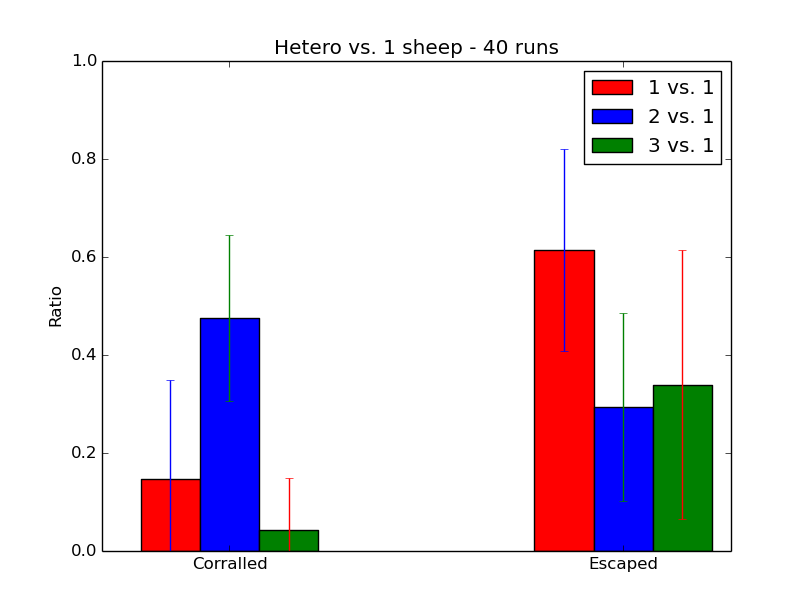
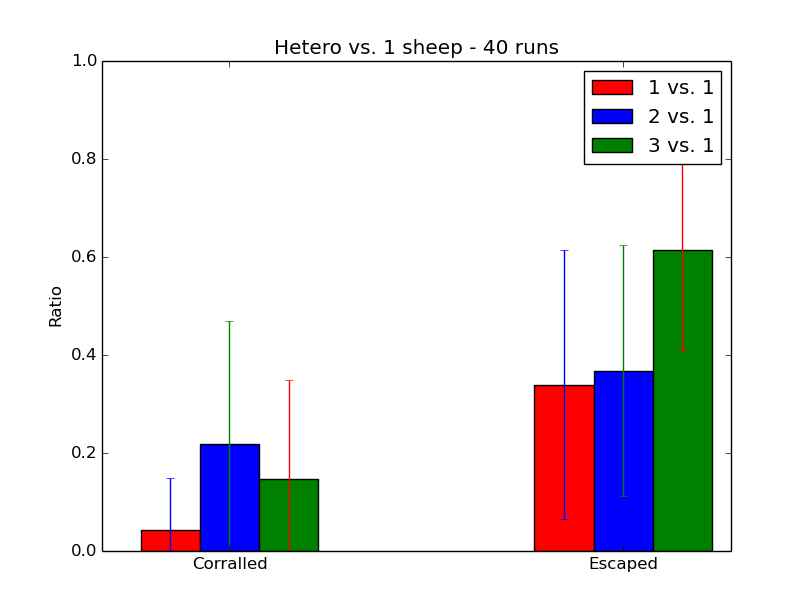
fixed bar charts

Changed region(s): [[0.6466, 0.2484, 0.8929, 0.8382], [0.2463, 0.4036, 0.4002, 0.9003], [0.1539, 0.6209, 0.2463, 0.8693]]

diff --git a/report/table.py b/report/table.py
@@ -63,15 +63,32 @@ for scenario in scenarios:
 ## T-TEST
 hetero1v1 = dfs["hetero.1v1"]
 hetero3v3ho = dfs["hetero.3v3.ho"]
-print "Fitness T-test"
+print "Fitness T-test 1vs1 - 3vs3"
 print "%.6f\n" % ttest_ind(hetero1v1.loc[:, "fitness"].values, hetero3v3ho.loc[:, "fitness"].values)[1]
-print "Corralled ratio T-test"
+print "Corralled ratio T-test 1vs1 - 3vs3"
 print "%.6f\n" % ttest_ind(hetero1v1.loc[:, "corralled_ratio"].values, hetero3v3ho.loc[:, "corralled_ratio"].values)[1]
 
+hetero3v1 = dfs["hetero.3v1"]
+print "Fitness T-test 1vs1 - 3vs1"
+print "%.6f\n" % ttest_ind(hetero1v1.loc[:, "fitness"].values, hetero3v1.loc[:, "fitness"].values)[1]
+print "Corralled ratio T-test 1vs1 - 3vs1"
+print "%.6f\n" % ttest_ind(hetero1v1.loc[:, "corralled_ratio"].values, hetero3v1.loc[:, "corralled_ratio"].values)[1]
 
-dfs_vals = dfs.values()
-data1 = dfs_vals[0:3]
-data2 = [dfs_vals[0], dfs_vals[3], dfs_vals[4]]
+print "Fitness T-test 3vs1 - 3vs3"
+print "%.6f\n" % ttest_ind(hetero3v1.loc[:, "fitness"].values, hetero3v3ho.loc[:, "fitness"].values)[1]
+print "Corralled ratio T-test 3vs1 - 3vs3"
+print "%.6f\n" % ttest_ind(hetero3v1.loc[:, "corralled_ratio"].values, hetero3v3ho.loc[:, "corralled_ratio"].values)[1]
+
+hetero3v2ho = dfs["hetero.3v2.ho"]
+print "Fitness T-test 3vs2 - 3vs3"
+print "%.6f\n" % ttest_ind(hetero3v2ho.loc[:, "fitness"].values, hetero3v3ho.loc[:, "fitness"].values)[1]
+print "Corralled ratio T-test 3vs2 - 3vs3"
+print "%.6f\n" % ttest_ind(hetero3v2ho.loc[:, "corralled_ratio"].values, hetero3v3ho.loc[:, "corralled_ratio"].values)[1]
+
+
+## BAR CHARTS
+data1 = [hetero1v1, dfs["hetero.2v1"], hetero3v1]
+data2 = [hetero3v1, hetero3v2ho, hetero3v3ho]
 data = [data1, data2]
 
 ind = np.arange(2)
